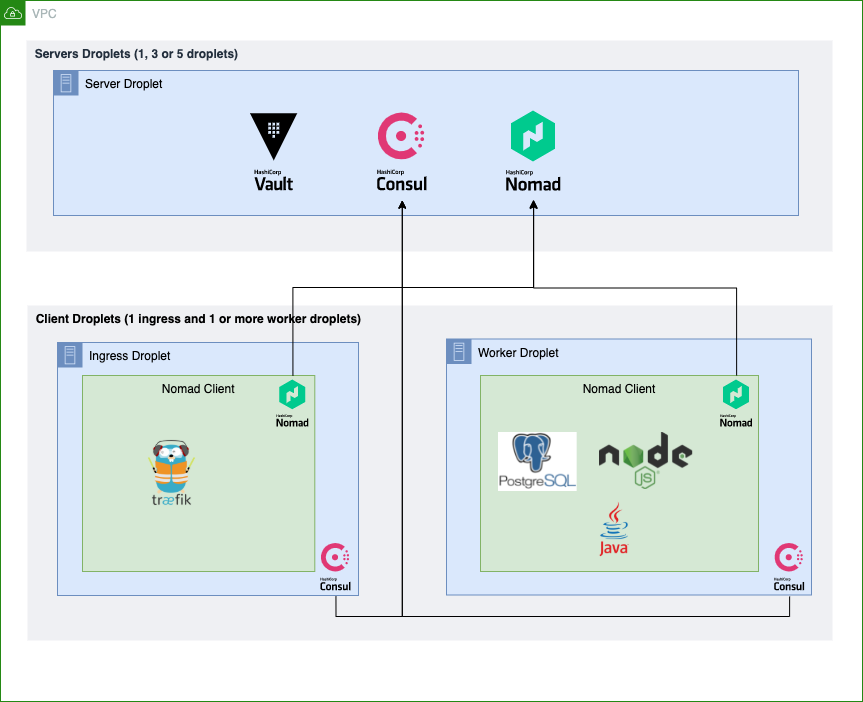
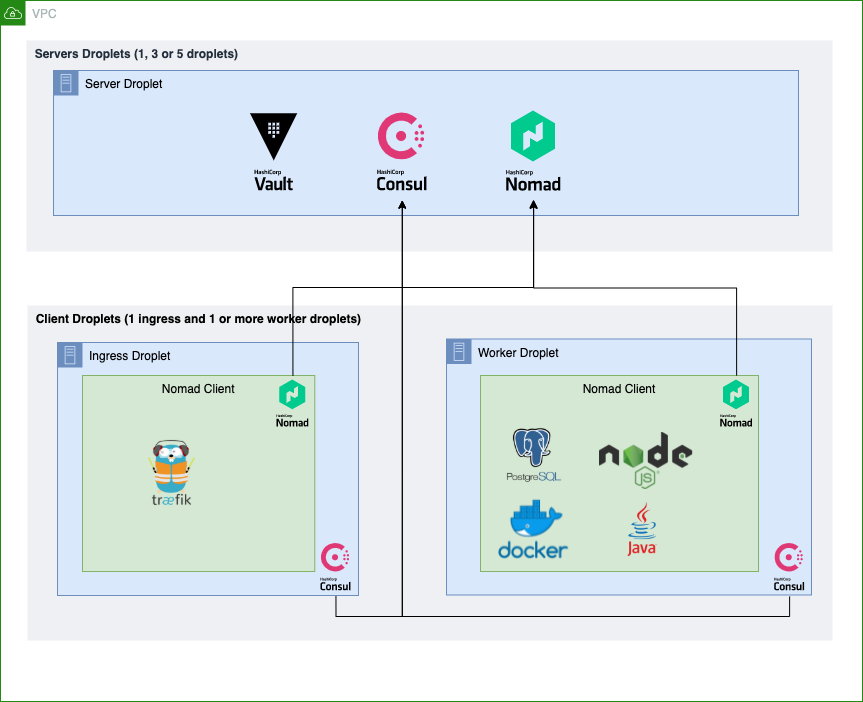
init

Changed region(s): [[0.5724, 0.5983, 0.6929, 0.8077], [0.6929, 0.7179, 0.7532, 0.8077]]

diff --git a/README.md b/README.md
@@ -50,7 +50,7 @@ This is a nice hosting stack for side projects
   <li>Not publicly accessible</li>
   <li>Client instance of Consul</li>
   <li>Client instance of Nomad</li>
-  <li>The different kinds of services / apps / jobs you need to run. Examples are postgresql database, docker container, jar file or node program. All of them are managed by nomad</li>
+  <li>The different kinds of services / apps / jobs you need to run. Examples are postgresql database, docker container, jar file or a node js app. All of them are managed by Nomad</li>
   </ul>
   <h4>Ingress Droplet</h4> 
   <ul>
@@ -131,9 +131,8 @@ nomad run postgres.nomad
 cd ..
 ```
 
-## Initializing vault
-Our app will need vault secrets so we need to initialize and unseal the vault cluster before
-it can be used. We will also manage all of the vault configuration with terraform.
+## Initializing Vault
+Our app will need Vault secrets so we need to initialize and unseal the Vault cluster before it can be used. We will also manage all of the Vault configuration with terraform.
 
 ```bash
 cd vault
@@ -154,8 +153,8 @@ cd ..
 ```
 
 ## Connect Nomad and Vault 
-Nomad needs a Vault token in order to query vault for secrets that it can pass on to the jobs deployed on Nomad. This script will restart the nomad servers with the vault token generated in the
-terraform configuration for Vault in the previous step.
+Nomad needs a Vault token in order to query Vault for secrets that it can pass on to the jobs deployed on Nomad. This script will restart the Nomad servers with the Vault token generated in the
+Terraform configuration for Vault in the previous step.
 
 ```bash
 cd cluster
@@ -175,10 +174,10 @@ cd ..
 ```
 
 ## Adding HTTPS 
-Traefik has really nice integrations with lets encrypt and can manage your certificates (creation, renewal etc). These are the steps needed to activate HTTPS:
+Traefik has really nice integration with lets encrypt and can manage your certificates (creation, renewal etc). These are the steps needed to activate HTTPS:
 1. Point your domain to the floating ip created in the cluster terraform infrastructure
 2. In `traefik.nomad` uncomment the `certificatesResolvers.myresolver.acme` section and add your own email.
-3. In `app.nomad` your service tags should look like this (Remember to replace `YOUR_DOMAIN_NAME` with your domain name):
+3. In `app.nomad` your service tags should look like this (Remember to replace `YOUR_DOMAIN_NAME`):
 ```
 	"traefik.enable=true",
 	"traefik.http.routers.app.entryPoints=http,websecure",
